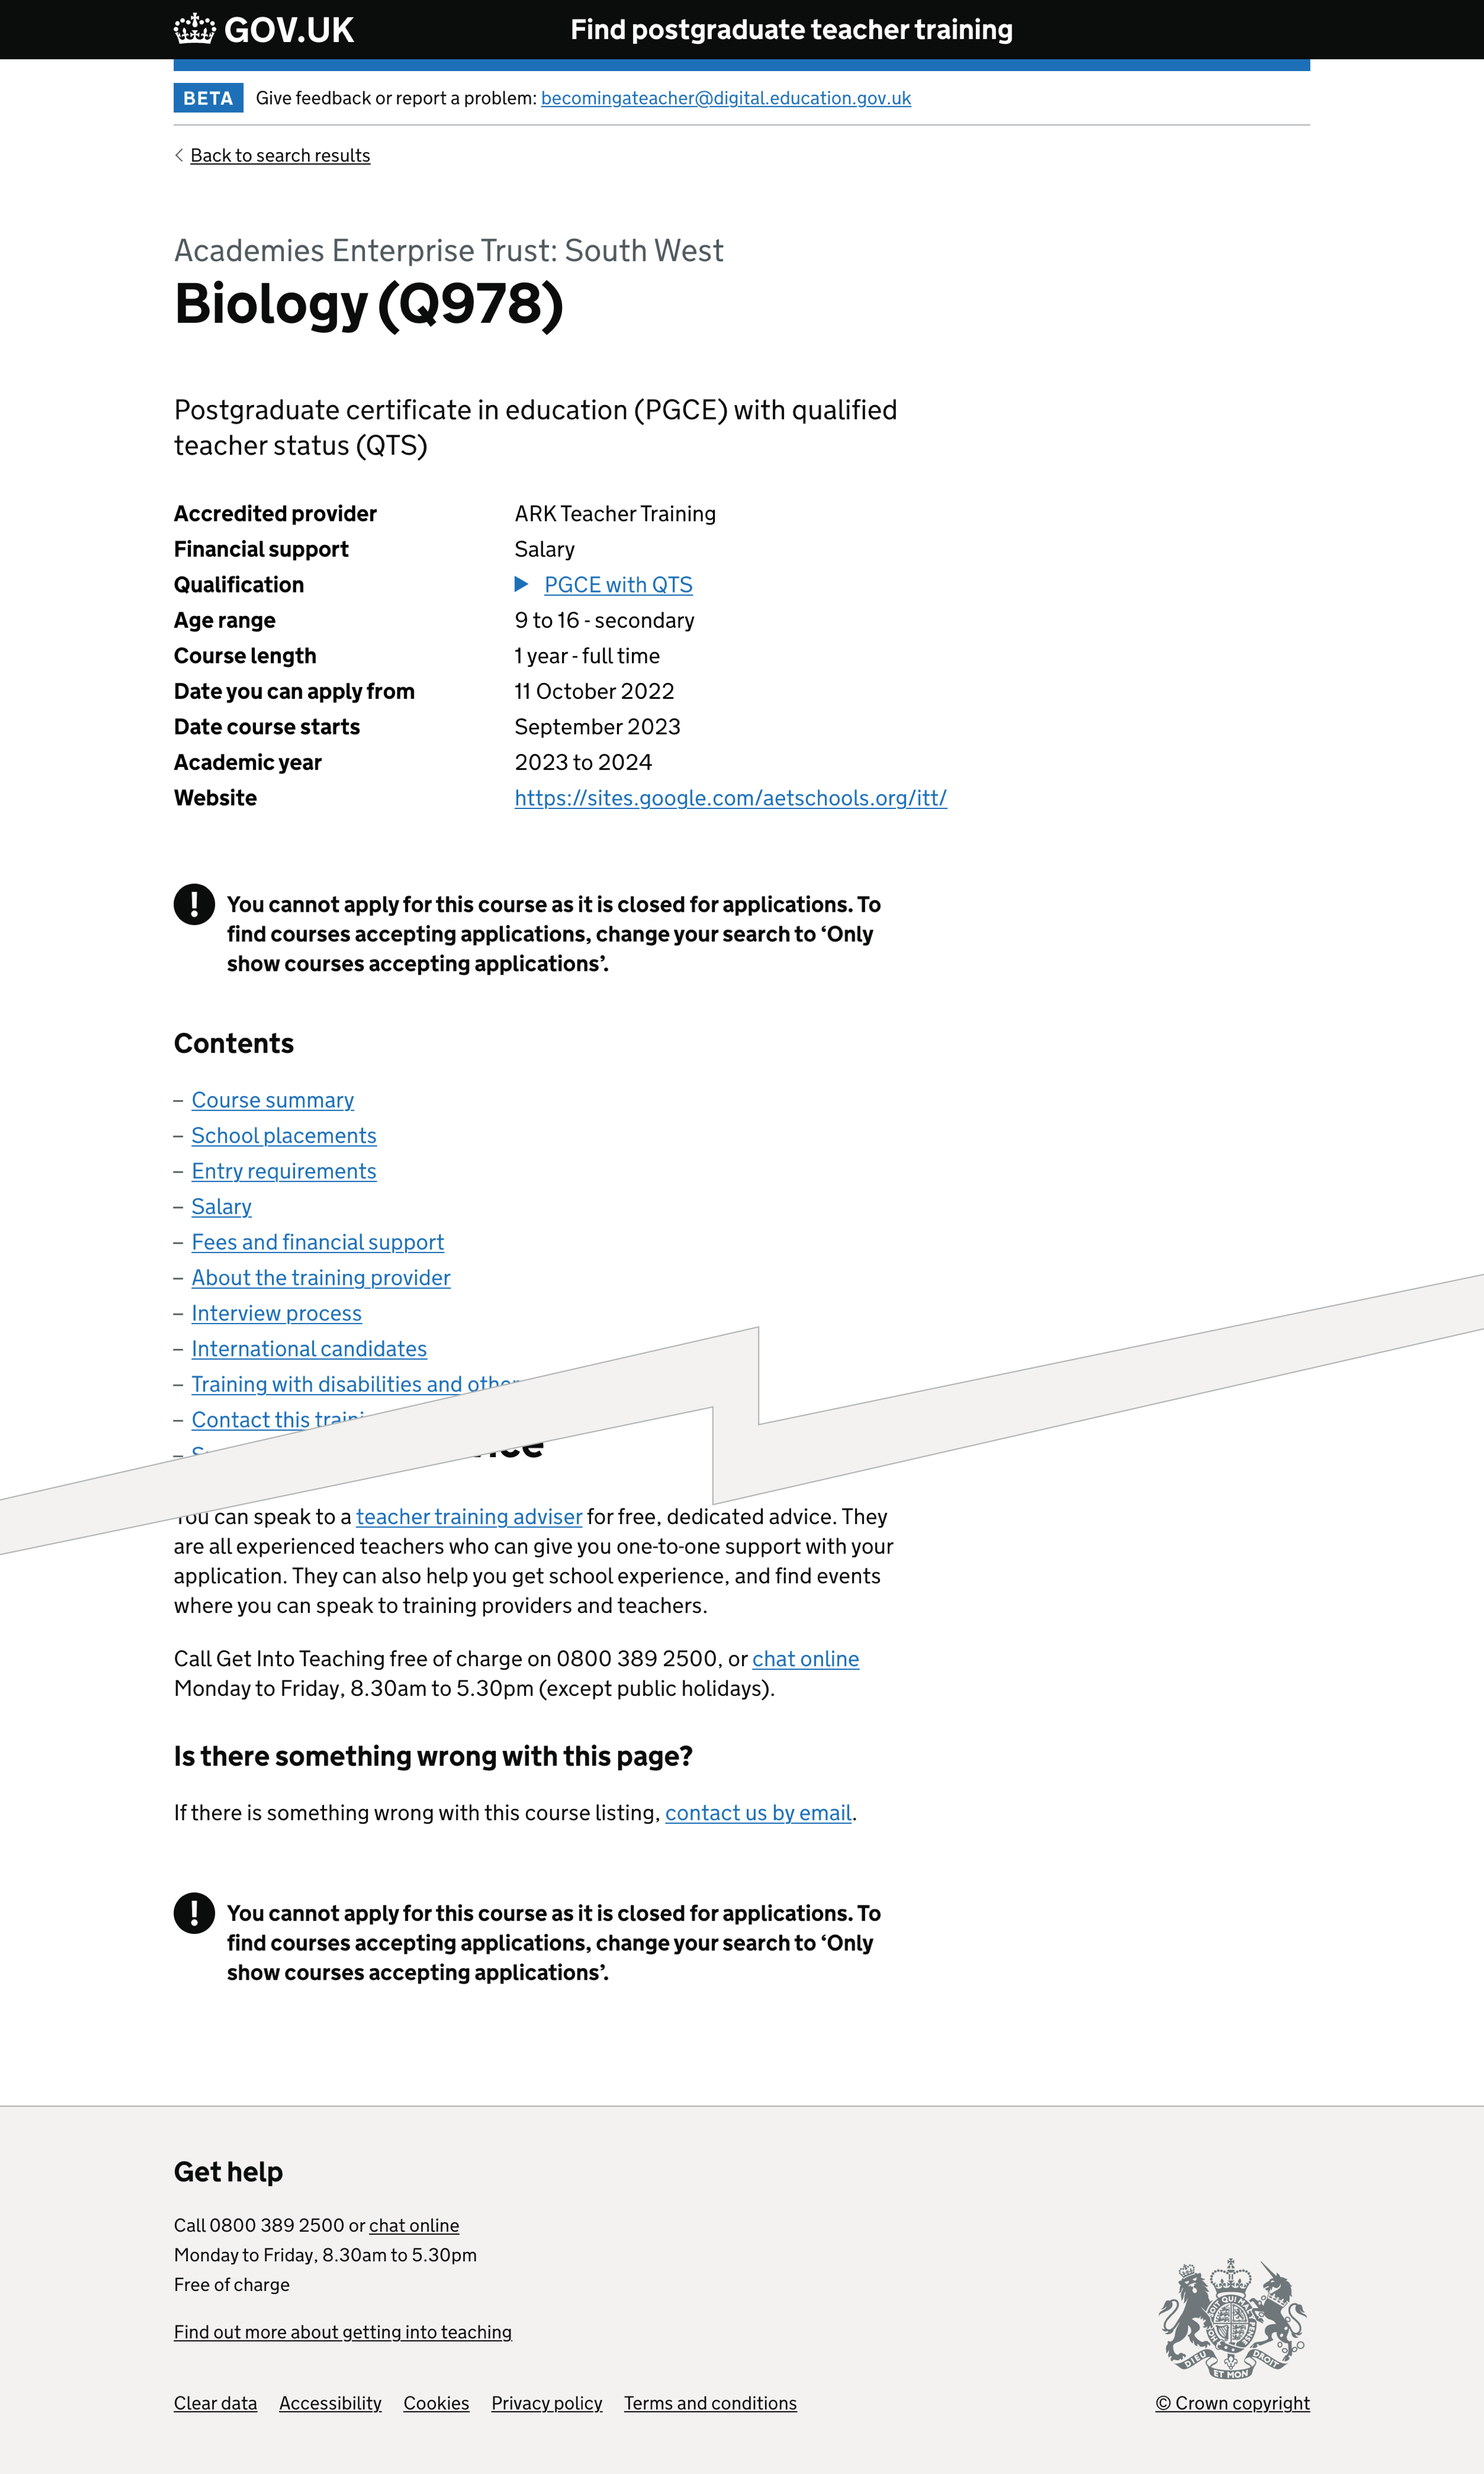
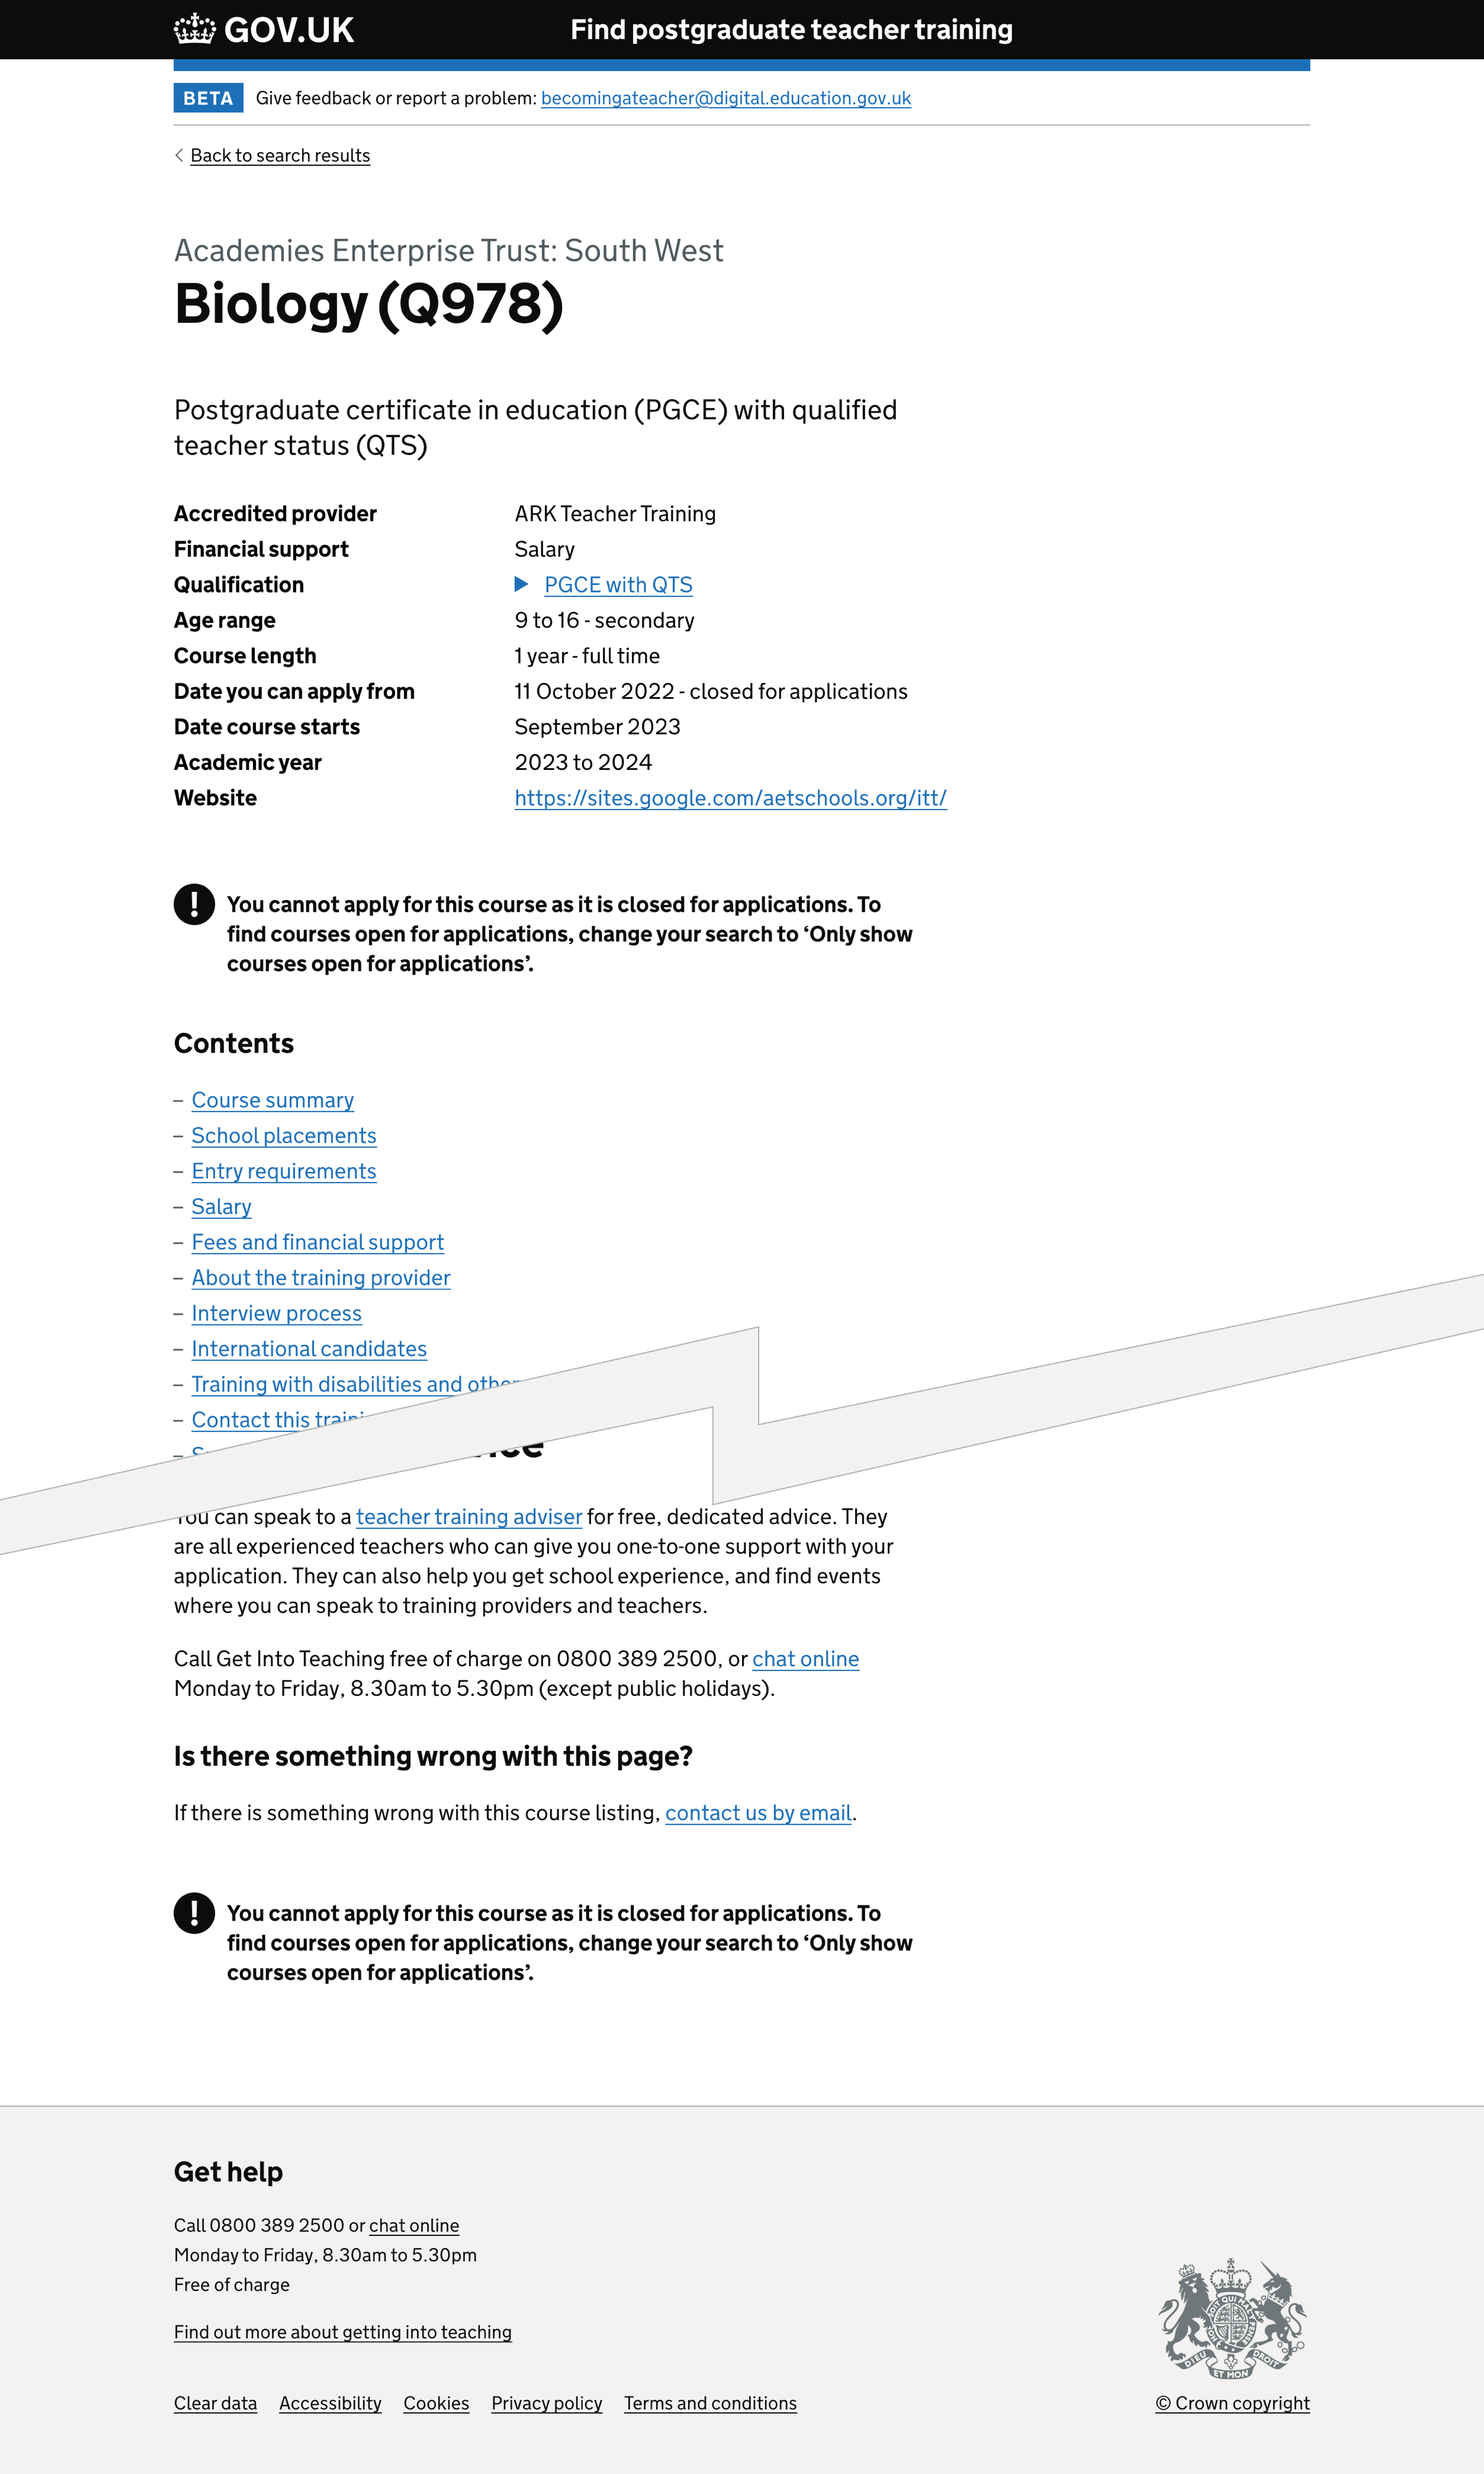
Update content following review

diff --git a/app/posts/find-teacher-training/2023-04-18-removing-school-placement-vacancies.md b/app/posts/find-teacher-training/2023-04-18-removing-school-placement-vacancies.md
@@ -41,26 +41,28 @@ We replaced the ‘Schools’ table with a list of schools and removed each scho
 
 ### Warning text
 
-If a course is closed, it is still available on Find, but candidates cannot apply.
+If a course is ‘Closed’, it is still available on Find postgraduate teacher training (Find), but candidates cannot apply.
 
 For all closed courses, we show a message:
 
-> You cannot apply for this course as it is closed for applications. To find courses accepting applications, change your search to ‘Only show courses accepting applications’.
+> You cannot apply for this course as it is closed for applications. To find courses open for applications, change your search to ‘Only show courses open for applications’.
 
 ![Course closed for applications](warning-message.png "Course closed for applications")
 
+We also append ‘Closed for applications’ next to the date you can apply from to avoid confusion.
+
 ### Vacancies filter
 
-If a course is open, it is available on Find, and candidates can apply.
+If a course is ‘Open’, it is available on Find, and candidates can apply.
 
-We replaced the ‘Vacancies’ filter with one labelled ‘Applications open’. The filter is selected by default, so we ‘Only show courses accepting applications.’
-
-We show all ‘Open’ and ‘Closed’ courses if the filter is deselected.
+We replaced the ‘Vacancies’ filter with one labelled ‘Applications open’. The filter is selected by default, so we ‘Only show courses open for applications.’
 
 ![Applications open filter](applications-open-filter.png "Applications open filter")
 
-## Further considerations
+We show all ‘Open’ and ‘Closed’ courses if the filter is deselected.
 
-If someone deselects the ‘Applications open’ filter, we show all open and closed courses. It is not easy to see which courses accept applications and which do not.
+For all ‘Closed’ courses in the list, we show an additional line in the summary list stating the ‘Closed for applications’. This helps users distinguish between the ‘Open’ and ‘Closed’ courses.
 
-In the future, we could add a label to ‘Closed’ courses on the courses list so that users can quickly see whether they can apply for the course.
+We do not add an ‘Open’ and ‘Closed’ status next to each course because, by default, we only show ‘Open’ courses in the list.
+
+![Applications open filter - deselected](applications-open-filter--unchecked.png "Applications open filter - deselected")
